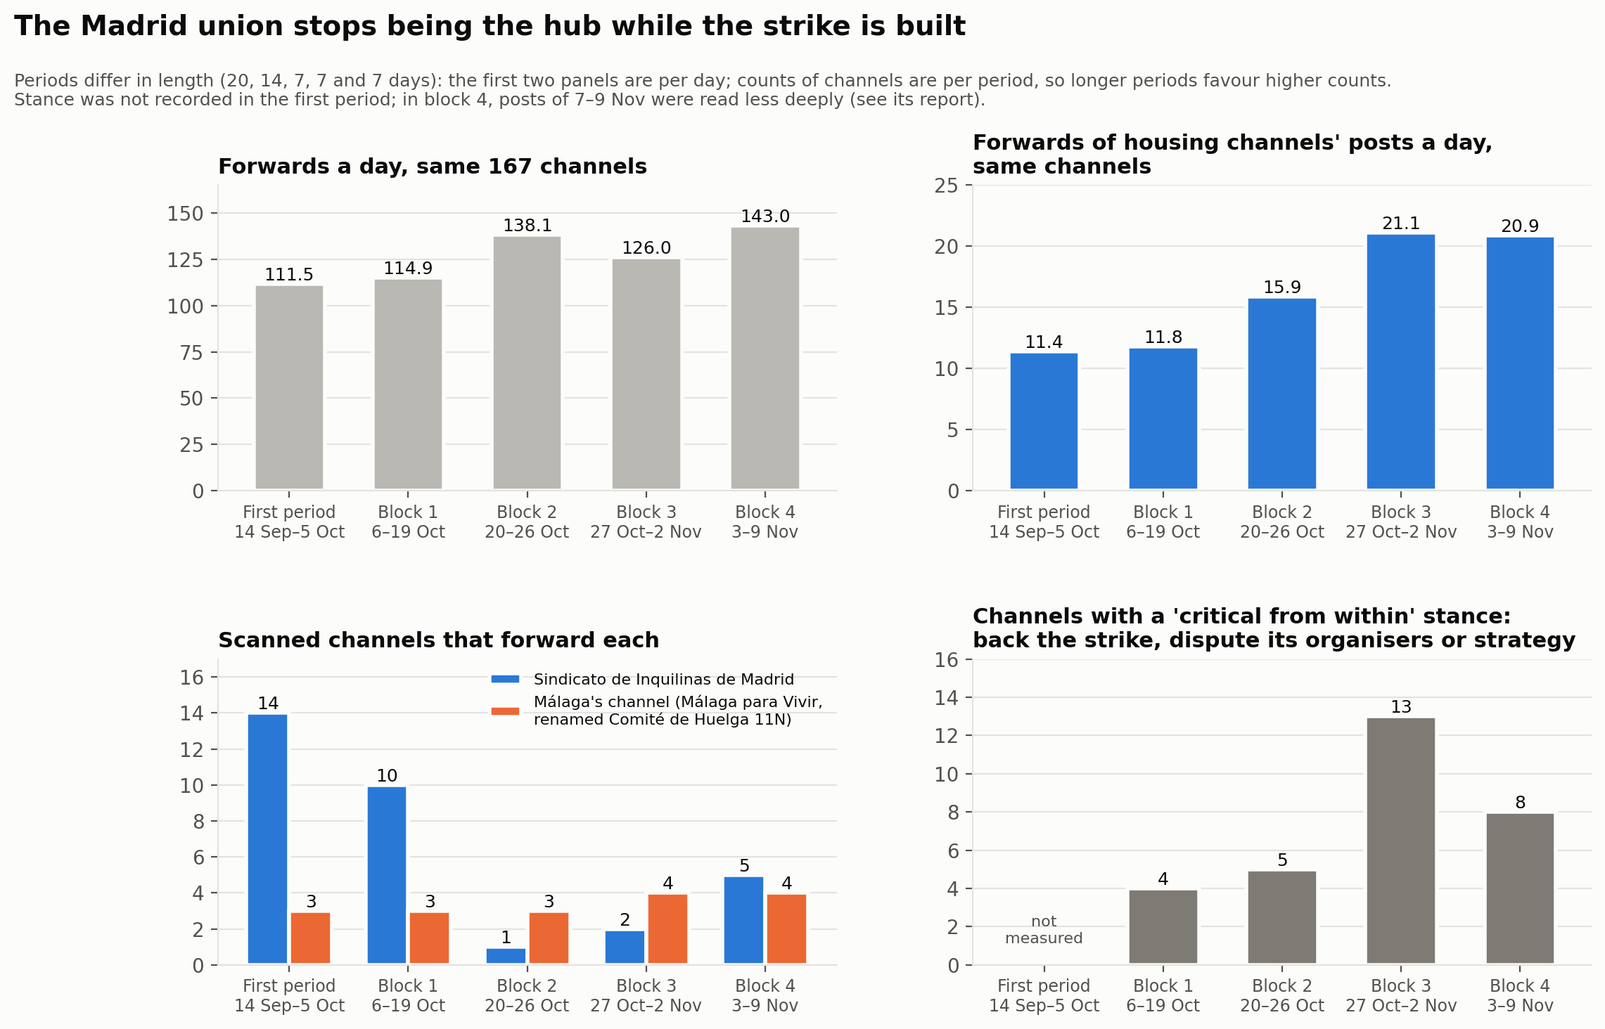
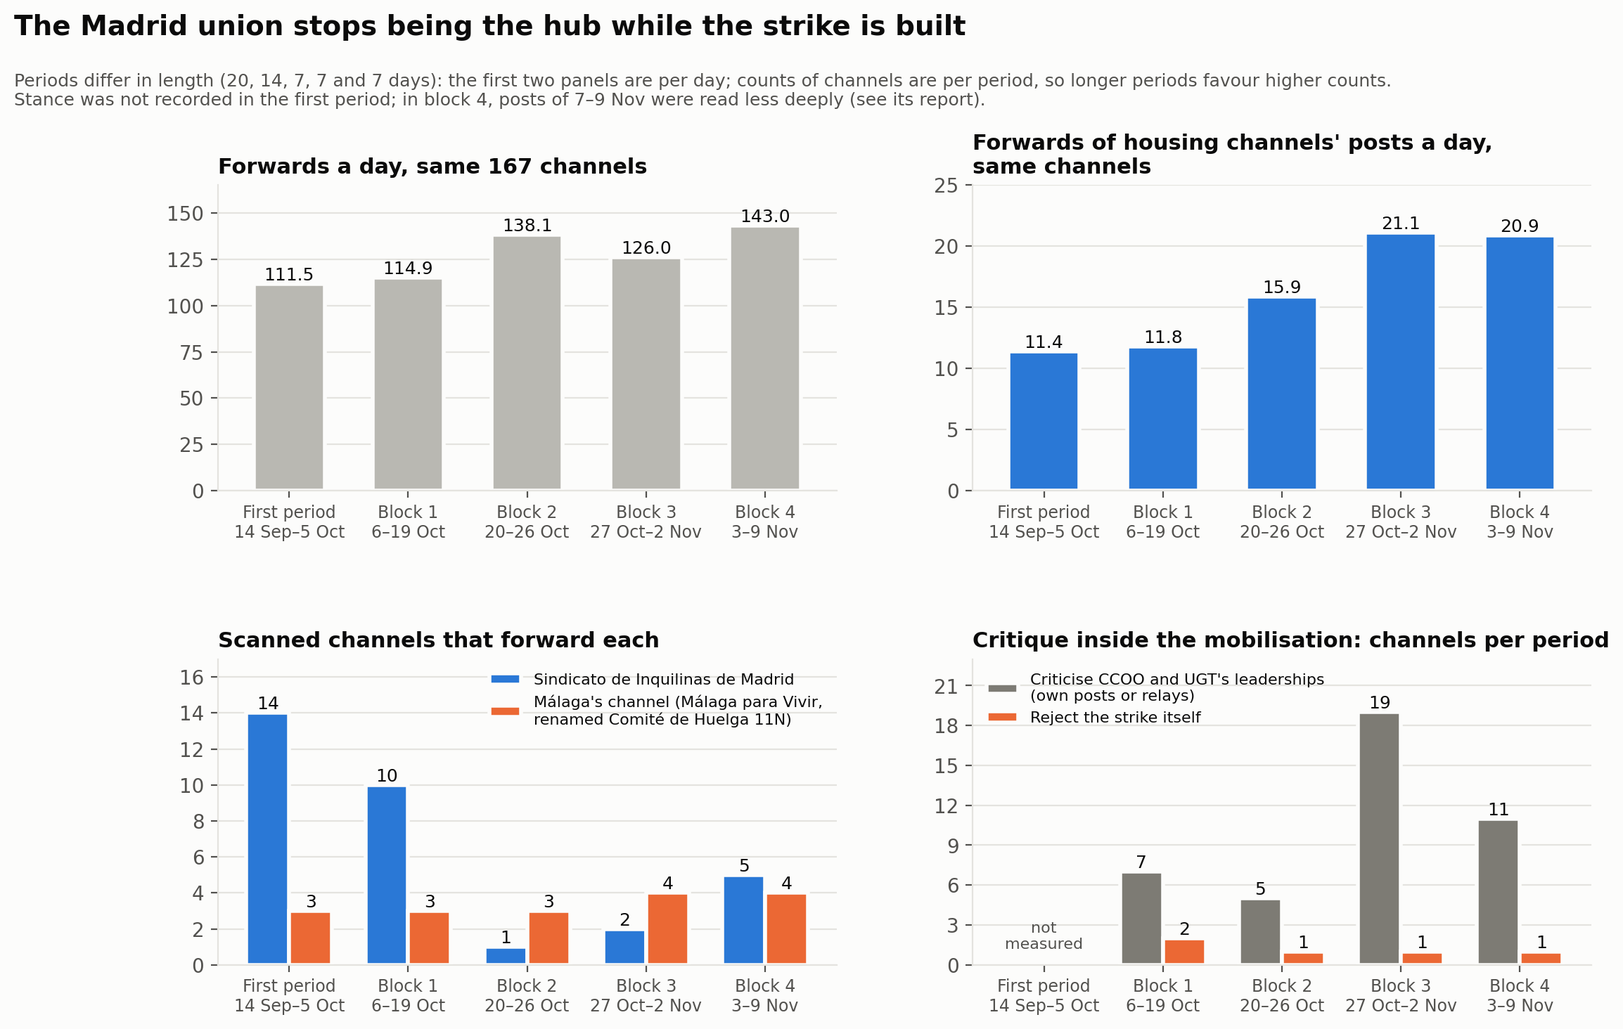
Revise the stance rule: critique of CCOO and UGT is not dissent from the strike
Channels that back the 11N strike while disputing CCOO and UGT's leaderships
now count as supportive, with the critique recorded separately; only channels
that reject the strike itself are "critical of the strike". Follow-up overview
(method, trajectory table and figure, finding 3) and home finding 3 updated in
three languages; block reports keep their wording with a dated note.

diff --git a/es/followup.md b/es/followup.md
@@ -34,9 +34,15 @@ revisión del seguimiento (CSV, en inglés)](../followup_review_log.csv).
   300 veces en el bloque). El bloque 1 tuvo una ronda adicional de expansión por
   reenvíos y de búsqueda por hashtags.
 - **Postura, bloque a bloque.** Cada canal recibe una postura para cada bloque, a partir
-  del texto completo de sus publicaciones: de apoyo; crítica desde dentro (apoya la
-  movilización pero cuestiona a sus convocantes o su estrategia); hostil; informativa; o
-  ninguna.
+  del texto completo de sus publicaciones: de apoyo; crítica con la huelga (comparte los
+  objetivos del movimiento pero rechaza o desdeña la propia huelga del 11 de noviembre);
+  hostil; informativa; o ninguna. Aparte, se registra qué critica cada canal, en
+  publicaciones propias o en reenvíos: las direcciones de CCOO y UGT, la estrategia de la
+  huelga u otras organizaciones del movimiento. *Regla revisada el 10 de noviembre de
+  2026:* hasta entonces, los canales que apoyaban la huelga mientras cuestionaban a CCOO y
+  UGT o su estrategia se clasificaban como «crítica desde dentro»; ahora cuentan como de
+  apoyo, con la crítica registrada. Los informes de bloque mantienen la etiqueta
+  anterior.
 - **Opositores.** Un canal cuyas publicaciones sobre la movilización son hostiles se
   etiqueta como *opositor*, sea cual sea su tipo. Los opositores se analizan, de modo que
   se ven sus vínculos con el resto, pero los canales que reenvían no se revisan salvo que
@@ -67,7 +73,8 @@ revisión del seguimiento (CSV, en inglés)](../followup_review_log.csv).
 | Publicaciones sobre la movilización al día, todos los canales | — | 101 | 73 | 76 | 166 |
 | Canales que reenvían al Sindicato de Inquilinas de Madrid | 14 | 10 | 1 | 2 | 5 |
 | Canales que reenvían el canal del comité de huelga de Málaga | 3 | 3 | 3 | 4 | 4 |
-| Canales con crítica desde dentro | — | 4 | 5 | 13 | 8 |
+| Canales que critican a las direcciones de CCOO y UGT (publicaciones propias o reenvíos) | — | 7 | 5 | 19 | 11 |
+| Canales críticos con la propia huelga | — | 2 | 1 | 1 | 1 |
 | Canales opositores | — | 2 | 2 | 2 | 3 |
 | Parte de los reenvíos de los cinco mayores reenviadores | 60 % | 51,1 % | 48,5 % | 46,5 % | 42,1 % |
 | Comunidades (modularidad) | 14 (0,60) | 13 (0,698) | 18 (0,735) | 19 (0,736) | 23 (0,744) |
@@ -77,7 +84,9 @@ revisión del seguimiento (CSV, en inglés)](../followup_review_log.csv).
 de toda la muestra ni se registró la postura. En el bloque 4 la lista de términos se
 amplió, así que su recuento de publicaciones sobre la movilización no es estrictamente
 comparable, y las publicaciones del 7–9 de noviembre se leyeron con menos profundidad
-para la postura (véase el informe del bloque).
+para la postura (véase el informe del bloque). Los recuentos de crítica siguen la regla
+revisada el 10 de noviembre de 2026; los reenvíos se encontraron leyendo las publicaciones
+que nombran a CCOO, UGT o las direcciones sindicales.
 
 ## Principales resultados hasta ahora
 
@@ -92,15 +101,16 @@ para la postura (véase el informe del bloque).
    publicaciones de canales de vivienda en el bloque 2, 128 de 176 en el bloque 3 y 132 en
    el bloque 4. Sus publicaciones las reenvían muchas veces los mismos tres o cuatro
    canales: volumen sin amplitud.
-3. **La movilización pasa de las acampadas a la huelga, y aparece la disidencia
-   interna.** Las publicaciones de los bloques 2 a 4 tratan casi todas de construir la
+3. **La movilización pasa de las acampadas a la huelga, y quienes la apoyan discuten
+   quién la dirige.** Las publicaciones de los bloques 2 a 4 tratan casi todas de construir la
    huelga del 11 de noviembre, y en el bloque 4, la semana anterior, las publicaciones
    sobre la movilización se duplican con creces (1.163 frente a 532, con una lista de
-   términos más amplia). Los canales que apoyan la huelga mientras cuestionan el papel de
-   CCOO y UGT, o el alcance de la huelga, pasan de 5 en el bloque 2 a 13 en el bloque 3
-   (entre ellos, el sindicato de vivienda de Granada y una carta abierta de los
-   sindicatos alternativos de Madrid) y son 8 en el bloque 4, todos contra el papel de
-   CCOO y UGT.
+   términos más amplia). Los canales que critican a las direcciones de CCOO y UGT, en
+   publicaciones propias o en reenvíos, son 7, 5, 19 y 11 en los bloques 1 a 4. Casi
+   todos apoyan la huelga, y varios pertenecen a organizaciones que firmaron la
+   convocatoria, sobre todo CGT, cuya federación de Madrid envió una carta abierta a CCOO
+   y UGT; el sindicato de vivienda de Granada convoca su propia manifestación. Los canales
+   que rechazan la propia huelga siguen siendo marginales: uno o dos por bloque.
 4. **Los grupos territoriales apenas se reenvían entre sí.** Hasta el bloque 3, todos los
    reenvíos entre canales de vivienda quedan dentro de Madrid, Barcelona, València o
    Málaga. El primer vínculo entre territorios aparece en el bloque 3, y es una mención:

diff --git a/ca/followup.md b/ca/followup.md
@@ -34,9 +34,15 @@ Totes les decisions de revisió, tant si s'hi va afegir el canal com si no, són
   bloc). El bloc 1 va tenir una ronda addicional d'expansió per reenviaments i de cerca
   per etiquetes (hashtags).
 - **Postura, bloc a bloc.** Cada canal rep una postura per a cada bloc, a partir del text
-  complet de les seves publicacions: de suport; crítica des de dins (dona suport a la
-  mobilització però en qüestiona els convocants o l'estratègia); hostil; informativa; o
-  cap.
+  complet de les seves publicacions: de suport; crítica amb la vaga (comparteix els
+  objectius del moviment però rebutja o menysté la mateixa vaga de l'11 de novembre);
+  hostil; informativa; o cap. A part, es registra què critica cada canal, en publicacions
+  pròpies o en reenviaments: les direccions de CCOO i UGT, l'estratègia de la vaga o
+  altres organitzacions del moviment. *Regla revisada el 10 de novembre del 2026:* fins
+  aleshores, els canals que donaven suport a la vaga alhora que qüestionaven CCOO i UGT o
+  la seva estratègia es classificaven com a «crítica des de dins»; ara compten com a de
+  suport, amb la crítica registrada. Els informes de bloc mantenen l'etiqueta
+  anterior.
 - **Opositors.** Un canal les publicacions del qual sobre la mobilització són hostils
   s'etiqueta com a *opositor*, sigui quin sigui el seu tipus. Els opositors s'analitzen,
   de manera que se'n veuen els vincles amb la resta, però els canals que reenvien no es
@@ -67,7 +73,8 @@ Totes les decisions de revisió, tant si s'hi va afegir el canal com si no, són
 | Publicacions sobre la mobilització al dia, tots els canals | — | 101 | 73 | 76 | 166 |
 | Canals que reenvien el Sindicato de Inquilinas de Madrid | 14 | 10 | 1 | 2 | 5 |
 | Canals que reenvien el canal del comitè de vaga de Màlaga | 3 | 3 | 3 | 4 | 4 |
-| Canals amb crítica des de dins | — | 4 | 5 | 13 | 8 |
+| Canals que critiquen les direccions de CCOO i UGT (publicacions pròpies o reenviaments) | — | 7 | 5 | 19 | 11 |
+| Canals crítics amb la mateixa vaga | — | 2 | 1 | 1 | 1 |
 | Canals opositors | — | 2 | 2 | 2 | 3 |
 | Part dels reenviaments dels cinc reenviadors més grans | 60 % | 51,1 % | 48,5 % | 46,5 % | 42,1 % |
 | Comunitats (modularitat) | 14 (0,60) | 13 (0,698) | 18 (0,735) | 19 (0,736) | 23 (0,744) |
@@ -77,7 +84,9 @@ Totes les decisions de revisió, tant si s'hi va afegir el canal com si no, són
 de tota la mostra ni es va registrar la postura. Al bloc 4 la llista de termes es va
 ampliar, així que el seu recompte de publicacions sobre la mobilització no és
 estrictament comparable, i les publicacions del 7–9 de novembre es van llegir amb menys
-profunditat per a la postura (vegeu l'informe del bloc).
+profunditat per a la postura (vegeu l'informe del bloc). Els recomptes de crítica
+segueixen la regla revisada el 10 de novembre del 2026; els reenviaments es van trobar
+llegint les publicacions que anomenen CCOO, UGT o les direccions sindicals.
 
 ## Principals resultats fins ara
 
@@ -92,14 +101,16 @@ profunditat per a la postura (vegeu l'informe del bloc).
    de publicacions de canals d'habitatge al bloc 2, 128 de 176 al bloc 3 i 132 al bloc 4.
    Les seves publicacions les reenvien moltes vegades els mateixos tres o quatre canals:
    volum sense amplitud.
-3. **La mobilització passa de les acampades a la vaga, i apareix la dissidència
-   interna.** Les publicacions dels blocs 2 a 4 tracten gairebé totes de construir la vaga
+3. **La mobilització passa de les acampades a la vaga, i qui hi dona suport discuteix
+   qui la dirigeix.** Les publicacions dels blocs 2 a 4 tracten gairebé totes de construir la vaga
    de l'11 de novembre, i al bloc 4, la setmana anterior, les publicacions sobre la
    mobilització es dupliquen amb escreix (1.163 davant de 532, amb una llista de termes
-   més àmplia). Els canals que donen suport a la vaga alhora que qüestionen el paper de
-   CCOO i UGT, o l'abast de la vaga, passen de 5 al bloc 2 a 13 al bloc 3 (entre ells, el
-   sindicat d'habitatge de Granada i una carta oberta dels sindicats alternatius de
-   Madrid) i són 8 al bloc 4, tots contra el paper de CCOO i UGT.
+   més àmplia). Els canals que critiquen les direccions de CCOO i UGT, en publicacions
+   pròpies o en reenviaments, són 7, 5, 19 i 11 als blocs 1 a 4. Gairebé tots donen
+   suport a la vaga, i diversos pertanyen a organitzacions que van signar la convocatòria,
+   sobretot la CGT, la federació de Madrid de la qual va enviar una carta oberta a CCOO i
+   UGT; el sindicat d'habitatge de Granada convoca la seva pròpia manifestació. Els canals
+   que rebutgen la mateixa vaga continuen sent marginals: un o dos per bloc.
 4. **Els grups territorials gairebé no es reenvien entre ells.** Fins al bloc 3, tots els
    reenviaments entre canals d'habitatge queden dins de Madrid, Barcelona, València o
    Màlaga. El primer vincle entre territoris apareix al bloc 3, i és una menció: un

diff --git a/followup.md b/followup.md
@@ -32,8 +32,14 @@ Every review decision, added or not, is in the [follow-up review log](followup_r
   own about the mobilisation in the block (three if it posts more than 300 times in the
   block). Block 1 had an additional round of forward expansion and hashtag discovery.
 - **Stance, block by block.** Every channel gets a stance for each block, from the full
-  text of its posts: supportive; critical from within (backs the mobilisation but
-  disputes its organisers or strategy); hostile; reporting; or none.
+  text of its posts: supportive; critical of the strike (shares the movement's aims but
+  rejects or belittles the 11 November strike itself); hostile; reporting; or none.
+  Separately, the block records what a channel criticises, in its own posts or in
+  relays: CCOO and UGT's leaderships, the strike's strategy, or other organisations of
+  the movement. *Rule revised on 10 November 2026:* until then, channels that backed the
+  strike while disputing CCOO and UGT or its strategy were classed "critical from
+  within"; they now count as supportive, with the critique recorded. The block reports
+  keep the earlier label.
 - **Opponents.** A channel whose posts about the mobilisation are hostile is tagged
   *opponent*, whatever kind of channel it is. Opponents are scanned, so their ties to the
   rest are seen, but the channels they forward are not reviewed unless someone else also
@@ -62,7 +68,8 @@ Every review decision, added or not, is in the [follow-up review log](followup_r
 | Posts about the mobilisation a day, all channels | — | 101 | 73 | 76 | 166 |
 | Channels forwarding the Sindicato de Inquilinas de Madrid | 14 | 10 | 1 | 2 | 5 |
 | Channels forwarding Málaga's strike committee channel | 3 | 3 | 3 | 4 | 4 |
-| Channels critical from within | — | 4 | 5 | 13 | 8 |
+| Channels criticising CCOO and UGT's leaderships (own posts or relays) | — | 7 | 5 | 19 | 11 |
+| Channels critical of the strike itself | — | 2 | 1 | 1 | 1 |
 | Opponent channels | — | 2 | 2 | 2 | 3 |
 | Share of forwards by the top five forwarders | 60 % | 51.1 % | 48.5 % | 46.5 % | 42.1 % |
 | Communities (modularity) | 14 (0.60) | 13 (0.698) | 18 (0.735) | 19 (0.736) | 23 (0.744) |
@@ -72,7 +79,8 @@ Every review decision, added or not, is in the [follow-up review log](followup_r
 the whole sample in the first study, and stance was not recorded. In block 4 the term
 list was widened, so its count of posts about the mobilisation is not strictly
 comparable, and posts of 7–9 November were read less deeply for stance (see the block's
-report).
+report). Critique counts follow the rule revised on 10 November 2026; relays were found by
+reading the posts that name CCOO, UGT or union leaderships.
 
 ## Main findings so far
 
@@ -86,13 +94,15 @@ report).
    housing channels' posts in block 2, 128 of 176 in block 3 and 132 in block 4. Its
    posts are forwarded by the same three or four channels many times each: volume
    without breadth.
-3. **The mobilisation turns from the camps to the strike, and dissent emerges inside
-   it.** Posts in blocks 2 to 4 are almost all about building the 11 November strike, and
+3. **The mobilisation turns from the camps to the strike, and the strike's supporters
+   argue about who leads it.** Posts in blocks 2 to 4 are almost all about building the 11 November strike, and
    in block 4, the week before it, posts about the mobilisation more than double (1,163
-   against 532, with a wider term list). Channels that back the strike while disputing
-   the role of CCOO and UGT, or the strike's scope, go from 5 in block 2 to 13 in block 3,
-   among them Granada's housing union and an open letter of Madrid's alternative unions,
-   and number 8 in block 4, all disputing CCOO and UGT.
+   against 532, with a wider term list). Channels criticising CCOO and UGT's leaderships,
+   in their own posts or in relays, number 7, 5, 19 and 11 in blocks 1 to 4. Almost all
+   back the strike, and several belong to organisations that signed the call, above all
+   CGT, whose Madrid federation sent an open letter to CCOO and UGT; Granada's housing
+   union calls its own march. Channels that reject the strike itself stay marginal: one or
+   two per block.
 4. **Territorial clusters barely forward each other.** Up to block 3, every forward
    between housing channels stays within Madrid, Barcelona, València or Málaga. The first
    tie across territories appears in block 3, and it is a mention: a joint statement by

diff --git a/es/index.md b/es/index.md
@@ -48,9 +48,11 @@ revisiones y los cambios de interpretación.
 2. **El canal del comité de huelga de Málaga concentra los reenvíos de contenido de
    vivienda** desde el bloque 2, pero a través de los mismos tres o cuatro canales:
    volumen sin amplitud.
-3. **La movilización pasa de las acampadas a la huelga del 11 de noviembre,** y los
-   canales que apoyan la huelga mientras cuestionan a sus convocantes pasan de 5 a 13 en
-   una semana, y son 8 en el bloque 4, la semana anterior a la huelga.
+3. **La movilización pasa de las acampadas a la huelga del 11 de noviembre,** y quienes
+   la apoyan discuten quién la dirige: los canales que critican a las direcciones de CCOO
+   y UGT pasan de 5 a 19 en una semana y son 11 en el bloque 4, la semana anterior a la
+   huelga, casi todos a favor de la huelga. El rechazo de la propia huelga sigue siendo
+   marginal.
 4. **Los grupos territoriales de vivienda apenas se reenvían entre sí**: el primer
    vínculo entre territorios, en el bloque 3, es un comunicado conjunto de las acampadas
    tras el accidente ferroviario de Urda, y en el bloque 4 el Sindicat de Llogateres de

diff --git a/ca/index.md b/ca/index.md
@@ -47,9 +47,10 @@ revisions i els canvis d'interpretació.
 2. **El canal del comitè de vaga de Màlaga concentra els reenviaments de contingut
    d'habitatge** des del bloc 2, però a través dels mateixos tres o quatre canals: volum
    sense amplitud.
-3. **La mobilització passa de les acampades a la vaga de l'11 de novembre,** i els canals
-   que donen suport a la vaga alhora que qüestionen els convocants passen de 5 a 13 en una
-   setmana, i són 8 al bloc 4, la setmana anterior a la vaga.
+3. **La mobilització passa de les acampades a la vaga de l'11 de novembre,** i qui hi
+   dona suport discuteix qui la dirigeix: els canals que critiquen les direccions de CCOO i
+   UGT passen de 5 a 19 en una setmana i són 11 al bloc 4, la setmana anterior a la vaga,
+   gairebé tots a favor de la vaga. El rebuig de la mateixa vaga continua sent marginal.
 4. **Els grups territorials d'habitatge gairebé no es reenvien entre ells**: el primer
    vincle entre territoris, al bloc 3, és un comunicat conjunt de les acampades després de
    l'accident ferroviari d'Urda, i al bloc 4 el Sindicat de Llogateres de Barcelona

diff --git a/index.md b/index.md
@@ -43,9 +43,10 @@ changes in interpretation.
    death, then by 1, 2 and 5 in blocks 2 to 4.
 2. **Málaga's strike committee channel carries the forwarding of housing content** from
    block 2, but through the same three or four channels: volume without breadth.
-3. **The mobilisation turns from the camps to the 11 November strike,** and channels that
-   back the strike while disputing its organisers grow from 5 to 13 in a week;
-   in block 4, the week before the strike, they are 8.
+3. **The mobilisation turns from the camps to the 11 November strike,** and its
+   supporters argue about who leads it: channels criticising CCOO and UGT's leaderships
+   rise from 5 to 19 in a week and are 11 in block 4, the week before the strike, almost
+   all of them backing the strike. Rejection of the strike itself stays marginal.
 4. **Territorial housing clusters barely forward each other**: the first tie across
    territories, in block 3, is a joint statement by the camps after the Urda rail crash,
    and in block 4 Barcelona's tenants' union forwards València's.

diff --git a/es/followup_block1.md b/es/followup_block1.md
@@ -68,6 +68,13 @@ canal, están en el [registro de revisión](../followup_review_log.csv) (bloque 
   - El diseño prevé una ronda de revisión por bloque. Esta ronda es un añadido y se
     mantiene aparte en el registro y en la prueba de sensibilidad de más abajo.
 
+> **Regla revisada (10 de noviembre de 2026).** Aquí *crítica desde dentro* abarca los
+> canales que apoyan la huelga mientras cuestionan a CCOO y UGT o su estrategia. La
+> regla se revisó después: esos canales cuentan como de apoyo, con la crítica
+> registrada aparte, y solo los que rechazan la propia huelga son *críticos con la
+> huelga*. Véase la [visión general del seguimiento](followup.md). Este informe se
+> mantiene tal como se publicó.
+
 **Panel tras el bloque 1 (265 canales), por papel y postura en el bloque 1.** Entre
 paréntesis, los canales añadidos en el bloque 1 (ronda de revisión + segunda ronda).
 

diff --git a/ca/followup_block1.md b/ca/followup_block1.md
@@ -68,6 +68,13 @@ revisió](../followup_review_log.csv) (bloc 1, columna `round`).
   - El disseny preveu una ronda de revisió per bloc. Aquesta ronda és un afegit i es manté
     a part al registre i a la prova de sensibilitat de més avall.
 
+> **Regla revisada (10 de novembre del 2026).** Aquí *crítica des de dins* inclou els
+> canals que donen suport a la vaga alhora que qüestionen CCOO i UGT o la seva
+> estratègia. La regla es va revisar després: aquests canals compten com a de suport,
+> amb la crítica registrada a part, i només els que rebutgen la mateixa vaga són
+> *crítics amb la vaga*. Vegeu la [visió general del seguiment](followup.md).
+> Aquest informe es manté tal com es va publicar.
+
 **Panell després del bloc 1 (265 canals), per paper i postura al bloc 1.** Entre
 parèntesis, els canals afegits al bloc 1 (ronda de revisió + segona ronda).
 

diff --git a/es/followup_block3.md b/es/followup_block3.md
@@ -84,6 +84,13 @@ revisión](../followup_review_log.csv) (bloque 3).
 canal de la Asamblea de Vivienda de Sevilla y el grupo de la acampada de València).
 Ningún candidato era hostil.
 
+> **Regla revisada (10 de noviembre de 2026).** Aquí *crítica desde dentro* abarca los
+> canales que apoyan la huelga mientras cuestionan a CCOO y UGT o su estrategia. La
+> regla se revisó después: esos canales cuentan como de apoyo, con la crítica
+> registrada aparte, y solo los que rechazan la propia huelga son *críticos con la
+> huelga*. Véase la [visión general del seguimiento](followup.md). Este informe se
+> mantiene tal como se publicó.
+
 **Panel tras el bloque 3 (297 canales), por papel y postura en el bloque 3**
 
 | Papel | de apoyo | crítica desde dentro | informativa | hostil | ninguna | no legible | total |

diff --git a/ca/followup_block3.md b/ca/followup_block3.md
@@ -85,6 +85,13 @@ revisió](../followup_review_log.csv) (bloc 3).
 de l'Asamblea de Vivienda de Sevilla i el grup de l'acampada de València). Cap candidat no
 era hostil.
 
+> **Regla revisada (10 de novembre del 2026).** Aquí *crítica des de dins* inclou els
+> canals que donen suport a la vaga alhora que qüestionen CCOO i UGT o la seva
+> estratègia. La regla es va revisar després: aquests canals compten com a de suport,
+> amb la crítica registrada a part, i només els que rebutgen la mateixa vaga són
+> *crítics amb la vaga*. Vegeu la [visió general del seguiment](followup.md).
+> Aquest informe es manté tal com es va publicar.
+
 **Panell després del bloc 3 (297 canals), per paper i postura al bloc 3**
 
 | Paper | de suport | crítica des de dins | informativa | hostil | cap | no llegible | total |

diff --git a/followup_block1.md b/followup_block1.md
@@ -58,6 +58,12 @@ decision, added or not, is in the [review log](followup_review_log.csv) (block 1
   - The design asks for one review round per block. This round is an addition and is
     kept apart in the log and in the sensitivity check below.
 
+> **Revised rule (10 November 2026).** Here *critical-within* covers channels that back
+> the strike while disputing CCOO and UGT or its strategy. The rule was later revised:
+> such channels count as supportive, with the critique recorded separately, and only
+> channels that reject the strike itself are *critical of the strike*. See the
+> [follow-up overview](followup.md). This report is kept as published.
+
 **Panel after block 1 (265 channels), by role and block-1 stance.** Numbers in brackets
 are the channels added in block 1 (review round + second round).
 

diff --git a/ca/followup_block2.md b/ca/followup_block2.md
@@ -86,6 +86,13 @@ revisió](../followup_review_log.csv) (bloc 2).
 - Set candidats eren privats.
 - Cap candidat no era hostil.
 
+> **Regla revisada (10 de novembre del 2026).** Aquí *crítica des de dins* inclou els
+> canals que donen suport a la vaga alhora que qüestionen CCOO i UGT o la seva
+> estratègia. La regla es va revisar després: aquests canals compten com a de suport,
+> amb la crítica registrada a part, i només els que rebutgen la mateixa vaga són
+> *crítics amb la vaga*. Vegeu la [visió general del seguiment](followup.md).
+> Aquest informe es manté tal com es va publicar.
+
 **Panell després del bloc 2 (281 canals), per paper i postura al bloc 2**
 
 | Paper | de suport | crítica des de dins | informativa | hostil | cap | no llegible | total |
